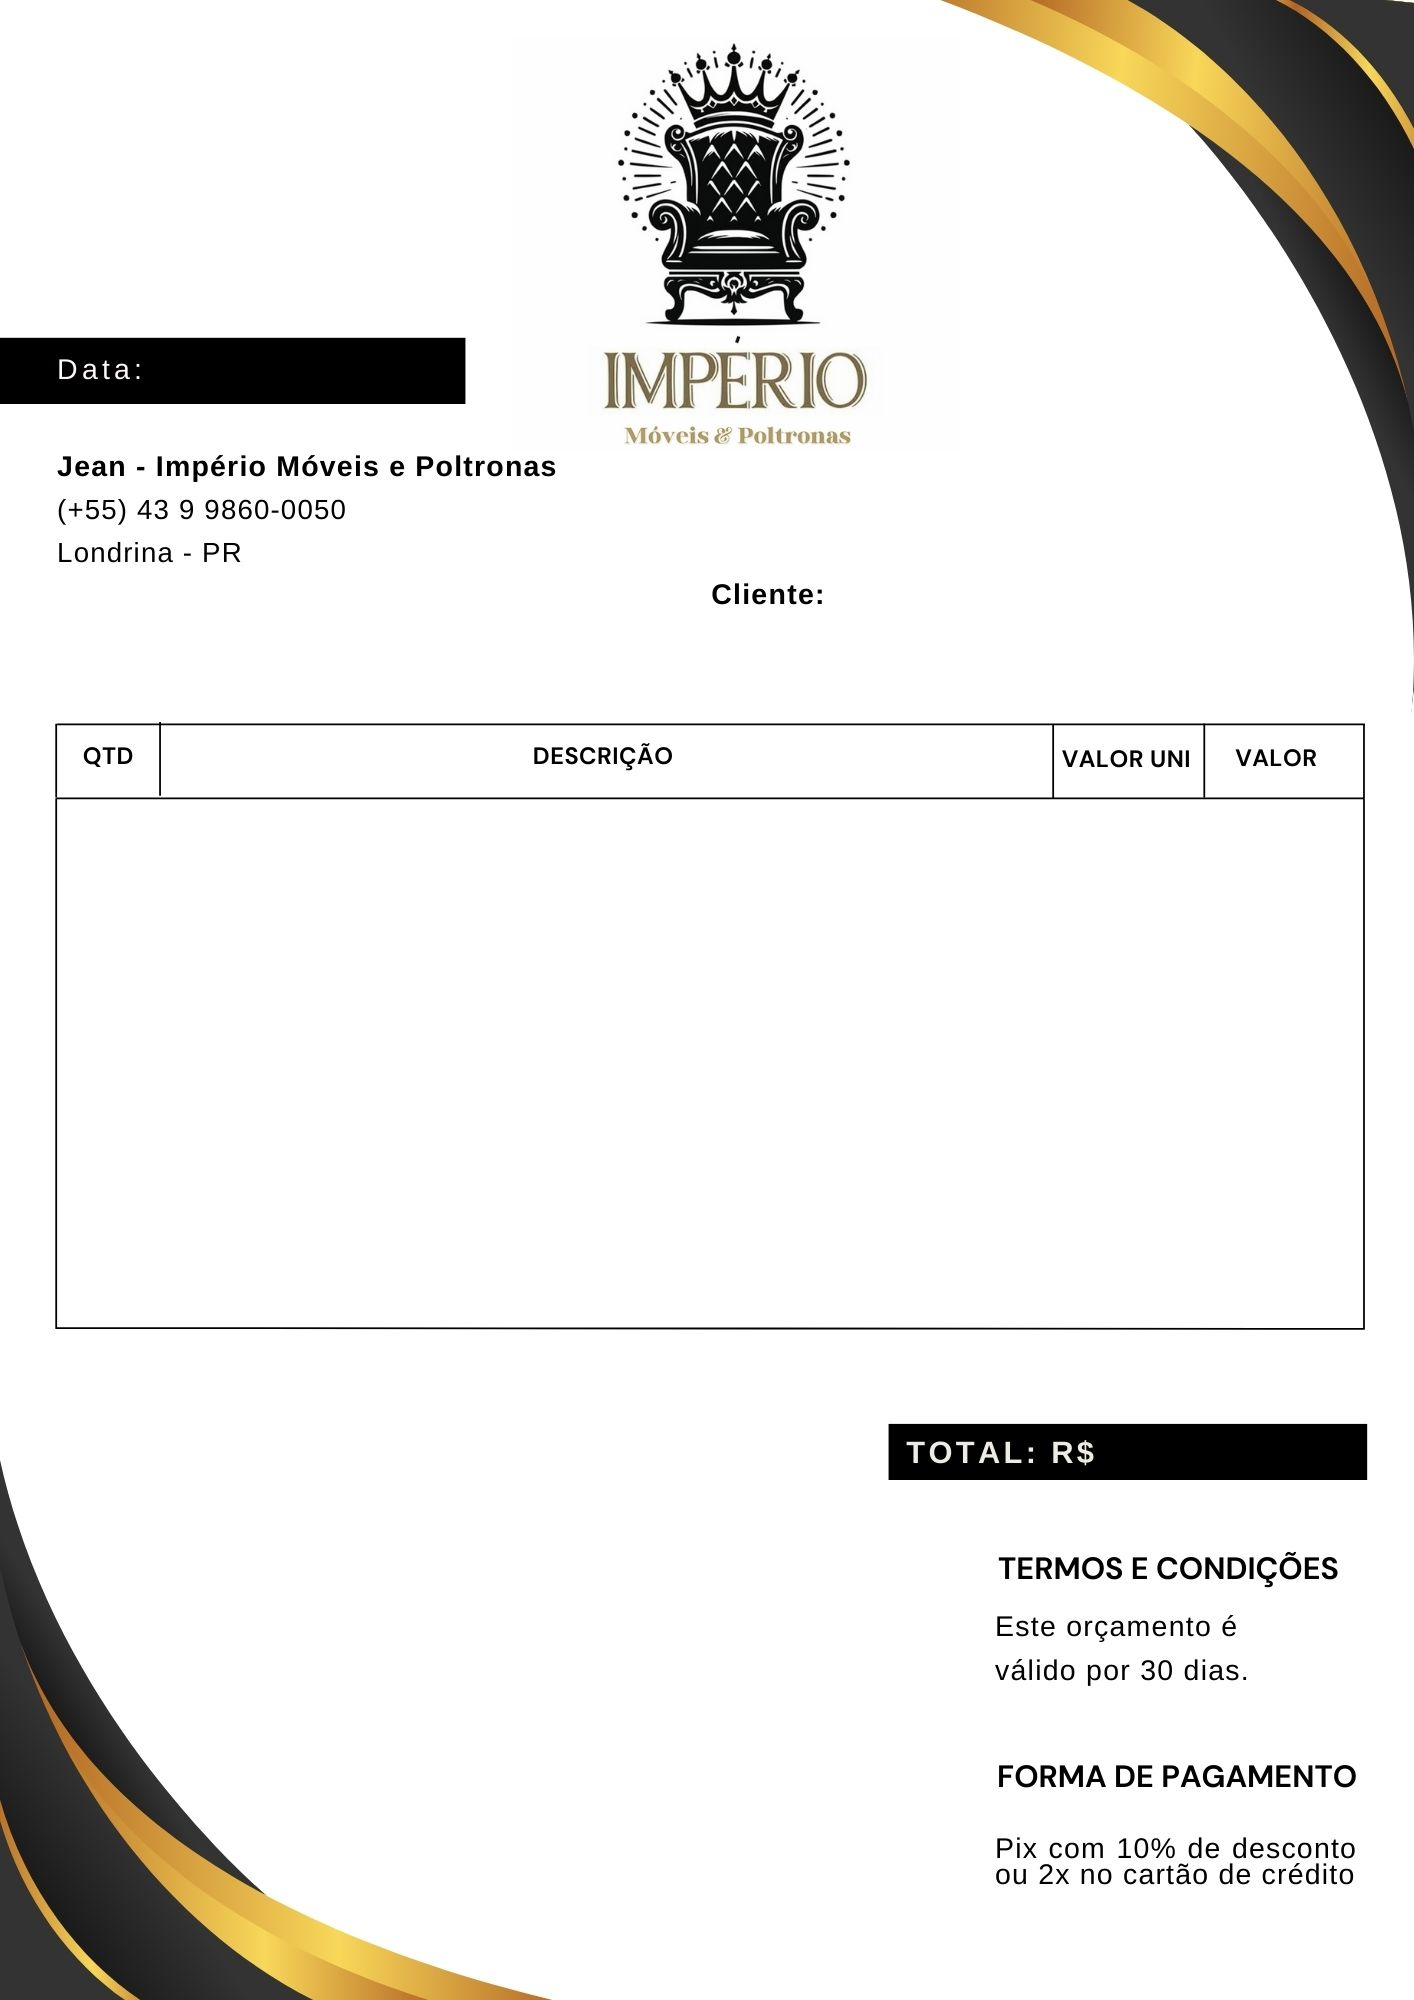
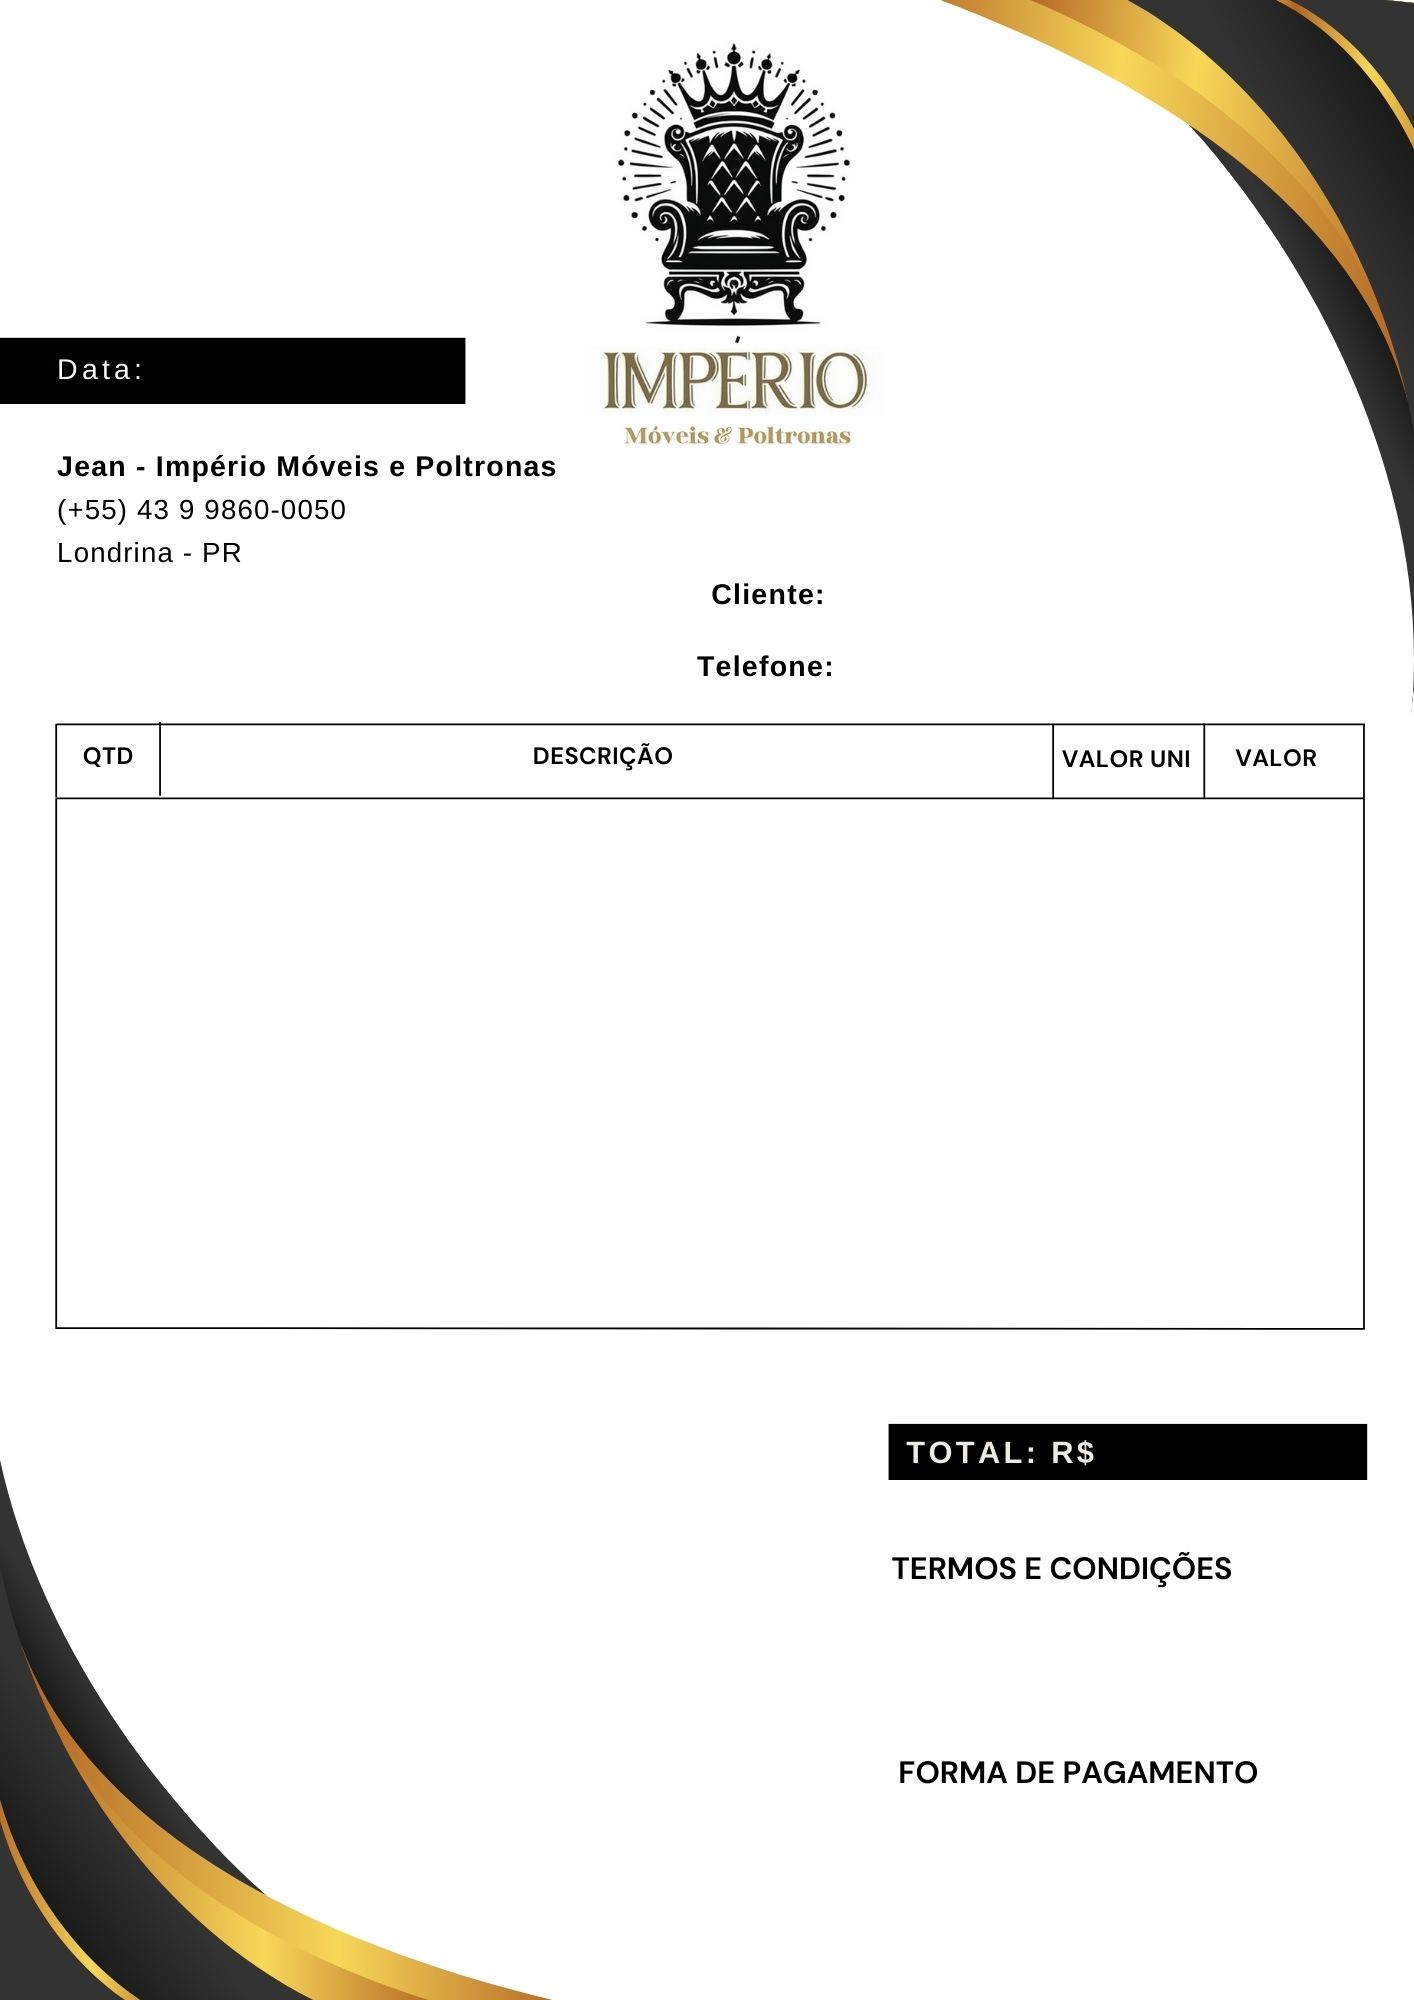
up

Changed region(s): [[0.6223, 0.868, 0.9646, 0.961], [0.6223, 0.775, 0.9335, 0.837], [0.4979, 0.31, 0.5912, 0.341]]

diff --git a/src/js/script.js b/src/js/script.js
@@ -8,6 +8,7 @@ document.getElementById("addItemBtn").addEventListener("click", function () {
     qtyInput.placeholder = 'Qtd';
     qtyInput.required = true;
     qtyInput.style.width = '10%';
+    qtyInput.step = '0.01';
 
     // Substituindo o campo de descrição por um select com opções predefinidas
     const descSelect = document.createElement('select');
@@ -16,9 +17,9 @@ document.getElementById("addItemBtn").addEventListener("click", function () {
 
     // Tipos de Peças
     const options = [
-        { label: "Serviço A", value: 100.00 },
-        { label: "Serviço B", value: 200.00 },
-        { label: "Serviço C", value: 300.00 },
+        { label: "Serviço A" },
+        { label: "Serviço B" },
+        { label: "Serviço C" },
     ];
 
     options.forEach(opt => {
@@ -30,12 +31,13 @@ document.getElementById("addItemBtn").addEventListener("click", function () {
 
     // Exibir o preço automaticamente baseado na opção selecionada
     const priceDisplay = document.createElement('input');
-    priceDisplay.type = 'text';
-    priceDisplay.placeholder = 'un';
-    priceDisplay.readOnly = true;
+    priceDisplay.type = 'number';
+    priceDisplay.placeholder = 'uni';
+    priceDisplay.required = true;
     priceDisplay.style.width = '15%';
-    priceDisplay.value = `R$ ${descSelect.value}`; // Valor inicial
-
+    priceDisplay.setAttribute('id', 'un')
+    priceDisplay.step = '0.01';
+    
 
     // Responsividade
     if (window.innerWidth <= 768) {
@@ -43,13 +45,8 @@ document.getElementById("addItemBtn").addEventListener("click", function () {
         qtyInput.style.width = '15%';
         priceDisplay.value = descSelect.value;
     }
-    // Atualizar o valor do preço baseado na seleção do usuário
-    descSelect.addEventListener('change', function () {
-        priceDisplay.value = `R$ ${descSelect.value}`;
-        if (window.innerWidth <= 768) {
-            priceDisplay.value = descSelect.value;
-        }
-    });
+
+
 
     const removeBtn = document.createElement('button');
     removeBtn.classList.add('removeBtn');
@@ -67,12 +64,16 @@ document.getElementById("addItemBtn").addEventListener("click", function () {
 });
 
 // Função principal do formulario
-document.getElementById("orcamentoForm").addEventListener("submit", function(event) {
+document.getElementById("orcamentoForm").addEventListener("submit", function (event) {
     event.preventDefault();
 
     // Pegando os inputs
     const nome = document.getElementById("nome").value;
+    const telefone = document.getElementById("telefone").value;
     const data = document.getElementById("data").value;
+    const tcond = document.getElementById("tcond").value;
+    const fpag = document.getElementById("fpag").value;
+
     const [ano, mes, dia] = data.split('-');
     const datebr = `${dia}/${mes}/${ano}`;
 
@@ -81,9 +82,9 @@ document.getElementById("orcamentoForm").addEventListener("submit", function(eve
     // Pegando valores do input do board
     const items = [];
     document.querySelectorAll("#board .item").forEach(function (itemDiv) {
-        const qty = itemDiv.querySelector("input[type='number']").value;
+        const qty = parseFloat(itemDiv.querySelector("input[type='number']").value);
         const desc = itemDiv.querySelector("select").selectedOptions[0].text;
-        const price = itemDiv.querySelector("select").value;
+        const price = parseFloat(itemDiv.querySelector("input[id='un']").value);
         const totalItem = qty * price;
         items.push({ qty, desc, price, total: totalItem });
         valorTotalItens += totalItem; // Somando o total de cada item
@@ -98,31 +99,60 @@ document.getElementById("orcamentoForm").addEventListener("submit", function(eve
 
     // Desenhando em cima do template
     img.onload = function () {
-      doc.addImage(img, 'JPG', 0, 0, doc.internal.pageSize.width, doc.internal.pageSize.height);
+        doc.addImage(img, 'JPG', 0, 0, doc.internal.pageSize.width, doc.internal.pageSize.height);
 
-      doc.setFont("Helvetica");
-      doc.setFontSize(14);
+        doc.setFont("Helvetica");
+        doc.setFontSize(14);
 
-      // Adicionando os dados do cliente
-      doc.text(125, 90, nome);
-      doc.setTextColor(255, 255, 255);
-      doc.text(25, 56, datebr);
+        // Adicionando os dados do cliente
+        doc.text(125, 90, nome);
+        doc.text(125, 100, telefone);
+        
 
-    let ypos = 125;
-       // Posição Y inicial para os itens
-      items.forEach(item => {
-        doc.setTextColor(0, 0, 0);
-        doc.text(13, ypos, item.qty.toString());
-        doc.text(35, ypos, item.desc);
-        doc.text(160, ypos, item.price.toString());
-        doc.text(180, ypos, item.total.toFixed(2));
-        ypos += 10;
-      });
+        // Define a largura máxima (em pontos) para o texto no PDF
+        const larguraMaxima = 70; // ajuste conforme necessário
 
-      // Adicionando o valor total de todos os itens do orçamento
-      doc.setTextColor(255, 255, 255);
-      doc.text(165, 217, valorTotalItens.toFixed(2)); // Exibindo o total do orçamento
+        // Divide o texto em várias linhas com base na largura máxima
+        const linhasTexto = doc.splitTextToSize(tcond, larguraMaxima);
+        
+        // Define a posição inicial
+        let yPos = 242; // ajuste a posição y conforme necessário
 
-      doc.save(`Orcamento_${nome}.pdf`);
+        // Desenha cada linha do texto no PDF
+        linhasTexto.forEach(linha => {
+            doc.text(135, yPos, linha); // ajuste x e y conforme necessário
+            yPos += 7; // move para a linha de baixo, ajuste conforme a altura da linha desejada
+        });
+        /////////////////////////////
+        const larguraMax = 70;
+        const linhasTexto2 = doc.splitTextToSize(fpag, larguraMax);
+        let yPos2 = 272;
+        linhasTexto2.forEach(linha => {
+            doc.text(135, yPos2, linha); // ajuste x e y conforme necessário
+            yPos2 += 7; // move para a linha de baixo, ajuste conforme a altura da linha desejada
+        });
+
+
+
+        doc.setTextColor(255, 255, 255);
+        doc.text(25, 56, datebr);
+
+
+        let ypos = 125;
+        // Posição Y inicial para os itens
+        items.forEach(item => {
+            doc.setTextColor(0, 0, 0);
+            doc.text(13, ypos, item.qty.toString());
+            doc.text(35, ypos, item.desc);
+            doc.text(160, ypos, item.price.toString());
+            doc.text(180, ypos, item.total.toFixed(2));
+            ypos += 10;
+        });
+
+        // Adicionando o valor total de todos os itens do orçamento
+        doc.setTextColor(255, 255, 255);
+        doc.text(165, 217, valorTotalItens.toFixed(2)); // Exibindo o total do orçamento
+
+        doc.save(`Orcamento_${nome}.pdf`);
     };
 });

diff --git a/index.html b/index.html
@@ -28,8 +28,18 @@
             <label for="nome">Nome do cliente:</label>
             <input type="text" id="nome" name="nome" required>
 
+            <label for="nome">Telefone do cliente:</label>
+            <input type="text" id="telefone" name="nome" required>
+
             <label for="data">Data do orçamento:</label>
             <input type="date" id="data" name="data" required>
+
+            <label for="nome">Termos e Condições:</label>
+            <input type="text" id="tcond" name="nome" required>
+
+            <label for="nome">Forma de pagamento:</label>
+            <input type="text" id="fpag" name="nome" required>
+
             <!--BOARD DE ITENS-->
             <div id="board"></div>
             <button class="btnAdd" type="button" id="addItemBtn">Adicionar Item</button>
